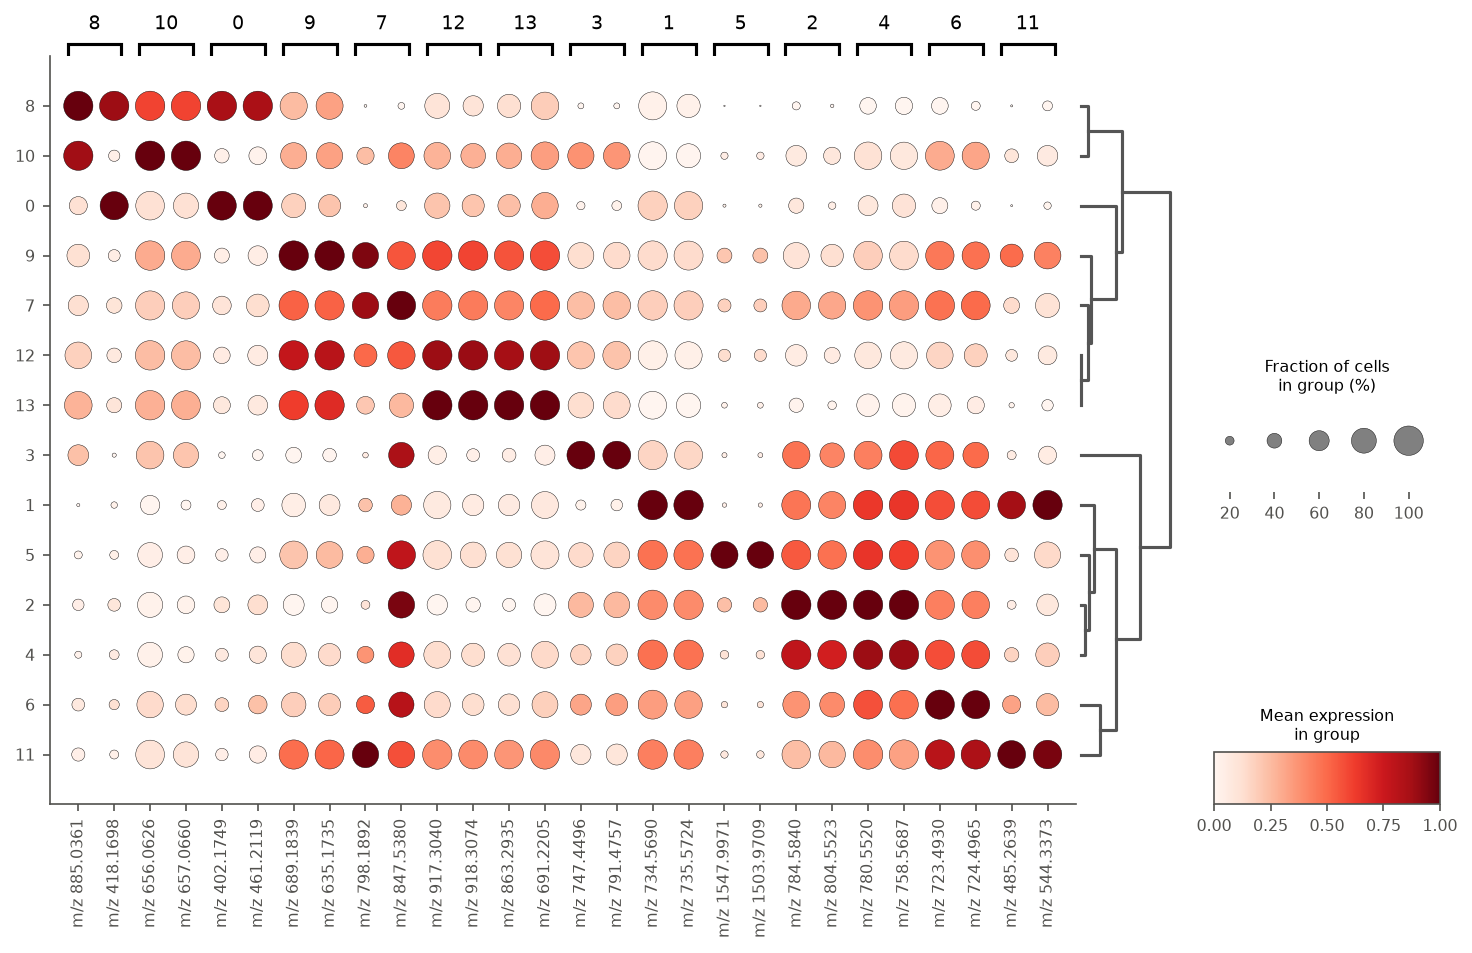
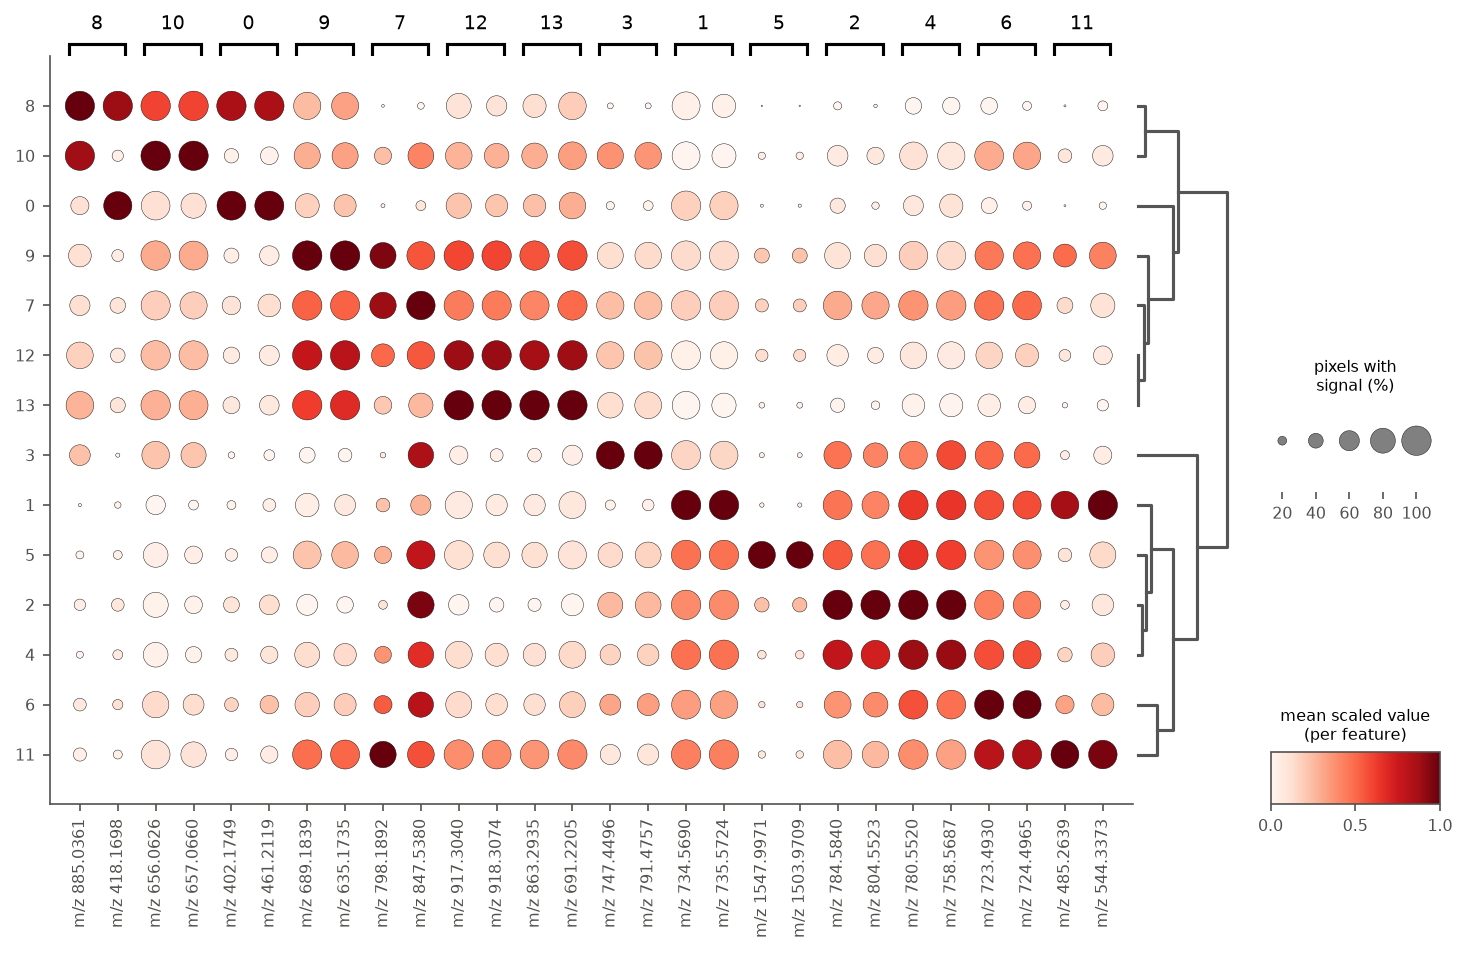
Analysis part: fixes from the Codex and Kimi reviews
Code blocks now connect (selected, lipizone, measured_scaled, effect sizes) and
the condition-comparison code adds Sex only when the design supports it.
Softer, more precise wording on restoration (circularity, jointly fitted
embedding), Harmony (guidance moved out of the NOTE), Leiden resolution,
censoring and the replicate unit; mixing baseline from the pixel numbers;
3-8 restricted to computational consequences; dot-plot legends without
single-cell terms.

diff --git a/scripts/analysis_examples.py b/scripts/analysis_examples.py
@@ -179,9 +179,10 @@ def run(adata, out, batch="sample", name=None, resolution=1.0, n_components=16, 
     B = adata.copy(); B.var_names = pd.Index(name.astype(str)).where(~pd.Index(name.astype(str)).duplicated(),
                                                                      pd.Index(name.astype(str)) + "_" + pd.Index(adata.var_names))
     sc.tl.rank_genes_groups(B, groupby="leiden", method="wilcoxon", layer="measured_scaled", use_raw=False)
-    dp = sc.pl.rank_genes_groups_dotplot(B, n_genes=2, layer="measured_scaled", show=False,
+    dp = sc.pl.rank_genes_groups_dotplot(B, n_genes=2, layer="measured_scaled", return_fig=True,
                                         standard_scale="var", figsize=(max(8, 0.32 * 2 * ncl + 3), 0.32 * ncl + 2))
-    plt.savefig(f"{out}/fig_3-5_markers.png"); plt.close("all")
+    dp.legend(colorbar_title="mean scaled value\n(per feature)", size_title="pixels with\nsignal (%)")
+    dp.savefig(f"{out}/fig_3-5_markers.png"); plt.close("all")
 
     # ---- 3-6 (only with a censored copy): detection and intensity per sample and cluster, uncensored vs censored
     if censored is not None and condition is not None:

diff --git a/Tutorial.md b/Tutorial.md
@@ -1528,16 +1528,19 @@ The same heuristic in a few lines reproduces the LBA's choice. The score subtrac
 
 ```python
 import numpy as np, pandas as pd
+# df: one row per tissue pixel, the normalized values of the features (list `features`) and a "Section" column
+# morans: features x sections, Moran's I per section (2-5)
 sec_var = df.groupby("Section")[features].var()
 score = sec_var.mean() - sec_var.var() / 2
 dropouts = (df.groupby("Section")[features].mean() < 1.5e-4).sum()
 keep = (morans.mean(axis=1) > 0.4) & (dropouts < 4) & (score > 0)
+selected = keep.index[keep]                    # the features used for the embedding (3-2)
 ```
 
-On the three zebrafish sections of 1-5, preprocessed as for the figures of section 2 (5,457 features detected in at least 5% of the tissue pixels of one section, TIC-normalized), the score behaves exactly like this: multiplying all intensities by a constant changes the fraction of features with a positive score from almost all to almost none (Figure 3-1, left). Separate criteria do not have this problem. The figures below use the 941 features with a mean Moran's I above 0.4 that are detected in at least 5% of the tissue pixels of every section (right).
+On the three zebrafish sections of 1-5, preprocessed as for the figures of section 2 (5,457 features detected in at least 5% of the tissue pixels of one section, TIC-normalized), the score behaves exactly like this: multiplying all intensities by a constant changes the fraction of features with a positive score from almost all to almost none (Figure 3-1, left). Separate criteria do not have this problem. 942 features have a mean Moran's I above 0.4 and are detected in at least 5% of the tissue pixels of every section (right). The figures below use 941 of them; one is kept out of the embedding to be restored from it in 3-4.
 
 ![Feature selection](figures/fig_3-1_features.png)
-*Figure 3-1. Left: fraction of the 5,457 zebrafish features with a positive LBA score after all intensities were multiplied by a constant; the cutoff `score > 0` selects almost all or almost none of them depending on the scale. Right: mean Moran's I against the lowest detection fraction over the three sections; the features used for the embedding (orange) pass both criteria (`scripts/make_analysis_figures.py`).*
+*Figure 3-1. Left: fraction of the 5,457 zebrafish features with a positive LBA score after all intensities were multiplied by a constant; the cutoff `score > 0` selects almost all or almost none of them depending on the scale. Right: mean Moran's I against the lowest detection fraction over the three sections; the selected features (orange) pass both criteria (`scripts/make_analysis_figures.py`).*
 
 ### 3-2 Dimensionality reduction and data integration
 <sub><a href="#top">(Back to top)</a></sub></br>
@@ -1566,6 +1569,8 @@ emb.tsne(perplexity=30, n_iter1=500, exaggeration1=1.2, n_iter2=100, exaggeratio
 emb.save_msi_dataset(plot_embeddings=True)
 ```
 
+**Which covariates to give Harmony** is a scientific decision: adjust for what you are *not* interested in. Give it the units of preparation and acquisition that carry unwanted technical variation (slide, matrix coating batch, run, day), and only if they are not aliased with what you want to study. `SectionID` is not automatically a technical batch: in serial sections it also encodes anatomy (section position), and in independent samples sections are nested in animals. `Sample` (animal) is the biological replicate; do not adjust for it just because pixels cluster by animal. `Sex` and `Condition` are biological; adjust for them only to build a deliberately condition-invariant reference, as the LBA did, and keep a second, minimally corrected embedding for everything else. Harmony encourages mixing across the given covariate; it does not remove it completely, and when the covariate is aliased with biology it can remove, keep or distort biological differences. If you adjust for `Condition`, never use the corrected embedding (or anything predicted from it) to test for condition effects.
+
 The same in generic scanpy terms (environment `msi-analysis`):
 
 ```python
@@ -1580,7 +1585,7 @@ ref = (adata.obs["Condition"] == "control").values     # learn the factors on th
 nmf = NMF(n_components=16, init="nndsvda", random_state=0, max_iter=500)
 nmf.fit(Xsel[ref])
 adata.obsm["X_nmf"] = nmf.transform(Xsel)              # project all pixels with the fixed loadings
-ho = hm.run_harmony(adata.obsm["X_nmf"], adata.obs, ["slide"])   # verified technical units only (see NOTE)
+ho = hm.run_harmony(adata.obsm["X_nmf"], adata.obs, ["slide"])   # verified technical units only (see above)
 Z = np.asarray(ho.Z_corr)
 # harmonypy <= 0.0.x returns components x cells; newer versions may return cells x components
 n_obs, n_comp = adata.obsm["X_nmf"].shape
@@ -1594,13 +1599,10 @@ else:
 
 Without a scale step like the one above, NMF mostly models the few most intense lipids, because it minimizes the squared error on the original values.
 
-In the zebrafish example, all three sections come from one embryo, so the reference set is all pixels, and Harmony is run on the section. Pixels already mix fairly well across sections: of the 15 nearest neighbours of a pixel in the NMF space, 69% come from its own section (33% would be complete mixing), and after Harmony 64% (Figure 3-2). The remaining separation is partly anatomy, because the sections cut the embryo at different depths; integration should not remove it.
+In the zebrafish example, all three sections come from one embryo, so the reference set is all pixels, and Harmony is run on the section. Pixels already mix partly across sections: of the 15 nearest neighbours of a pixel in the NMF space, 69% come from its own section (34% would be expected with complete mixing, given the pixel numbers of the sections), and after Harmony 64% (Figure 3-2). The remaining separation is partly anatomy, because the sections cut the embryo at different depths; integration should not remove it.
 
 ![NMF and Harmony](figures/fig_3-2_embedding.png)
-*Figure 3-2. UMAP of the NMF scores of all tissue pixels of the three zebrafish sections, before (left) and after (centre left) Harmony on the section, and three NMF factors in section 22 with the lipid that loads most on each (right) (`scripts/make_analysis_figures.py`).*
-
->**NOTE**
->Which covariates to give Harmony is a scientific decision: regress out what you are *not* interested in. Give it the units of preparation and acquisition that carry unwanted technical variation (slide, matrix coating batch, run, day), and only if they are not aliased with what you want to study. `SectionID` is not automatically a technical batch: in serial sections it also encodes anatomy (section position), and in independent samples sections are nested in animals. `Sample` (animal) is the biological replicate; do not remove it just because pixels cluster by animal. `Sex` and `Condition` are biological; remove them only to build a deliberately condition-invariant reference, as the LBA did, and keep a second, minimally corrected embedding for everything else. If you remove `Condition`, never use the corrected embedding (or anything predicted from it) to test for condition effects.
+*Figure 3-2. UMAP of the NMF scores of all tissue pixels of the three zebrafish sections, before (left) and after (centre left) Harmony on the section (column `sample`), and three NMF factors in section 22 with the lipid that loads most on each (right) (`scripts/make_analysis_figures.py`).*
 
 ### 3-3 Clustering and spatial segmentation
 <sub><a href="#top">(Back to top)</a></sub></br>
@@ -1613,7 +1615,7 @@ sc.tl.leiden(adata, resolution=2.0, flavor="igraph", n_iterations=2, key_added="
 ```
 With millions of pixels, subsample for the neighbor graph and transfer labels with a classifier, or use `n_neighbors` ~15 and a GPU implementation (rapids-singlecell). Validate such classifiers on entire held-out animals (and, if possible, acquisition runs), never on randomly held-out pixels: neighbouring pixels are nearly identical, so random splits overestimate accuracy. Report accuracy per held-out animal and per cluster.
 
-The resolution of 2.0 above was chosen for millions of pixels; for the three zebrafish sections (57,000 pixels), resolution 0.5 gives 14 clusters. They follow the anatomy of the embryo and recur in all three sections (Figure 3-3). Two clusters (0 and 8) form the outer rim of the tissue, and their marker ions (Figure 3-5) are background ions: in section 24, m/z 402.17 is about 8 times and m/z 885.04 about 4 times more intense off tissue than inside the embryo, while PC 34:1 [M+H]+ reaches only 8% of its inner level in these rim pixels. This is the rim of delocalized signal discussed in 2-2. Inspect such clusters, and remove them or tighten the mask, before interpreting them as tissue.
+The resolution of 2.0 above is the LBA-scale setting; the number of clusters it gives depends on the data, the neighbour graph and the preprocessing, not only on the number of pixels. For the three zebrafish sections (57,000 pixels), resolution 0.5 gives 14 clusters. Whatever resolution you choose, check that the clusters are stable under small changes, spatially coherent, recur in independent samples and can be interpreted. They follow the anatomy of the embryo and recur in all three sections (Figure 3-3). Two clusters (0 and 8) form the outer rim of the tissue, and their marker ions (Figure 3-5) are background ions: in section 24, m/z 402.17 is about 8 times and m/z 885.04 about 4 times more intense off tissue than inside the embryo, while PC 34:1 [M+H]+ reaches only 8% of its inner level in these rim pixels. This is the rim of delocalized signal discussed in 2-2. Inspect such clusters, and remove them or tighten the mask, before interpreting them as tissue.
 
 ![Leiden clusters](figures/fig_3-3_clusters.png)
 *Figure 3-3. Leiden clusters (resolution 0.5) on the Harmony-corrected NMF embedding, in the three zebrafish sections (`scripts/make_analysis_figures.py`).*
@@ -1695,14 +1697,14 @@ restored = model.predict(adata.obsm["X_harmony"])           # keep in a separate
 print("held-out r:", np.corrcoef(restored[~train], y[~train])[0, 1])
 ```
 
-Figure 3-4 does this for a well-detected zebrafish lipid that was left out of the embedding. Trained on sections 22 and 24, the restored image of section 26 correlates well with the measured one (r = 0.85), which is what the LBA's validation criterion checks. But the restored image is smoother, and more of its variance is explained by the clusters (31%, against 23% for the measured values): the prediction carries the structure of the embedding, which is the circularity described below.
+Figure 3-4 does this for a well-detected zebrafish lipid that was left out of the embedding. Trained on sections 22 and 24, the restored image of section 26 correlates well with the measured one (r = 0.85), which is what the LBA's validation criterion checks. But the restored image is smoother, and more of its variance is explained by the clusters (31%, against 23% for the measured values): the prediction carries the structure of the embedding, which is the circularity described below. Note also that NMF and Harmony were fitted on all three sections, including the held-out one, so r checks the regressor, not a fully independent prediction; for that, fit the whole chain (feature selection, scaling, NMF, integration, regressor) without the held-out sample.
 
 ![Restoration from the embedding](figures/fig_3-4_restoration.png)
 *Figure 3-4. Restoration of m/z 1017.6684 in the held-out zebrafish section 26 from the Harmony-corrected NMF embedding (gradient-boosted trees trained on sections 22 and 24): measured values, restored values, and the Leiden clusters of Figure 3-3 (`scripts/make_analysis_figures.py`).*
 
 Why this needs care:
-1. **Circularity.** A restored lipid is a function of the same embedding that defined the clusters. It will look cluster-specific by construction, and cannot provide independent evidence for a cluster.
-2. **Removed biology.** The predictors come from an embedding where `Condition` (and `Sex`) were regressed out. A restored lipid can then only show condition differences indirectly, through changed cluster composition.
+1. **Circularity.** A restored lipid is a function of the same embedding that defined the clusters. It tends to inherit the structure of that embedding, looks more cluster-specific than the measured lipid, and cannot provide independent evidence for a cluster.
+2. **Weakened biology.** The predictors come from an embedding that was adjusted for `Condition` (and `Sex`). Harmony does not remove such differences completely, but it can weaken or distort them, so condition differences of a restored lipid are unreliable in either direction.
 3. **Validation on the training distribution.** A validation r > 0.4 on one held-out section of the same brain says little about sections from other animals or conditions.
 
 Recommendations:
@@ -1718,13 +1720,27 @@ A cluster is only a label. To make it useful, describe what distinguishes it (ma
 **Marker lipids.** Mann-Whitney U tests of each cluster versus all others (or versus siblings in a hierarchy), with BH correction, on 0-1 scaled measured values; report the effect size (log2 fold change of means) and the fraction of pixels above background. Pixels are spatially autocorrelated and nested in sections and animals, so these p-values are not valid inference, and BH correction does not fix that. Use them, or better the effect sizes, only to rank candidate markers. To claim that a lipid is enriched in a cluster, aggregate per animal x cluster and test with the animal as unit, as in 3-6.
 
 ```python
-# rank on measured (not imputed or batch-corrected) values, stored in a dedicated layer (2-9)
+import numpy as np, pandas as pd
+# measured (not imputed or batch-corrected) values (2-9), scaled 0-1 per lipid between its 0.5 and 99.5 percentiles
+M = adata.X.toarray() if hasattr(adata.X, "toarray") else np.asarray(adata.X)
+lo, hi = np.percentile(M, 0.5, axis=0), np.percentile(M, 99.5, axis=0)
+adata.layers["measured_scaled"] = np.clip((M - lo) / np.where(hi > lo, hi - lo, 1), 0, 1)
+adata.obs["lipizone"] = adata.obs["leiden"]                  # or the EUCLID lipizones (3-3)
+
 sc.tl.rank_genes_groups(adata, groupby="lipizone", method="wilcoxon", layer="measured_scaled", use_raw=False)
-sc.pl.rank_genes_groups_dotplot(adata, n_genes=3, layer="measured_scaled")   # plot the same values
+dp = sc.pl.rank_genes_groups_dotplot(adata, n_genes=2, layer="measured_scaled", return_fig=True)   # same values
+dp.legend(colorbar_title="mean scaled value", size_title="pixels with signal (%)")   # scanpy's defaults say "cells"
+dp.show()
+
+# effect size on the unscaled measured values: log2 ratio of the cluster mean to the mean of all other pixels
+lab = adata.obs["lipizone"].to_numpy()
+eps = np.median(M[M > 0]) * 1e-3                              # small offset for lipids absent from a group
+lfc = pd.DataFrame({c: np.log2((M[lab == c].mean(axis=0) + eps) / (M[lab != c].mean(axis=0) + eps))
+                    for c in np.unique(lab)}, index=adata.var_names)        # lipids x clusters
 ```
 
 ![Marker lipids](figures/fig_3-5_markers.png)
-*Figure 3-5. The two top-ranked features of each zebrafish cluster of Figure 3-3 (Wilcoxon test of each cluster against all others on 0-1 scaled measured values; colour: mean scaled value, scaled per feature; dot size: fraction of pixels with signal). The ranking is computed on pixels and serves to find candidates, not to test them (`scripts/make_analysis_figures.py`).*
+*Figure 3-5. The two top-ranked features of each zebrafish cluster of Figure 3-3 (Wilcoxon test of each cluster against all others on 0-1 scaled measured values; colour: mean scaled value, rescaled per feature for display, not a fold change; dot size: fraction of pixels with signal). The ranking is computed on pixels and serves to find candidates, not to test them (`scripts/make_analysis_figures.py`).*
 
 **Anatomy.** Cross-tabulate clusters and Allen regions; the LBA used a reciprocal enrichment score (enrichment of the cluster in the region multiplied by enrichment of the region in the cluster) to name clusters after regions.
 
@@ -1750,7 +1766,7 @@ Remember that the MSI and MERFISH data come from different animals and that a pi
 ### 3-6 Comparing conditions
 <sub><a href="#top">(Back to top)</a></sub></br>
 Comparing conditions, e.g. disease vs control, is where MSI analyses often go wrong. The rules are the same as for any replicated experiment:
-1. **The biological replicate is the animal**, not the pixel and not the section. Millions of pixels make any difference "significant".
+1. **The replicate is the independent biological unit** that was assigned to a condition (an animal, a donor, an independently generated organoid batch), not the pixel and not the section. Millions of pixels make any difference "significant". The code below calls this unit `Sample` and speaks of animals.
 2. **Acquisition batches must not coincide with conditions.** If they do (as in the LBA pregnancy experiment, all acquired two years after the controls), no model can separate the two; a model can only replace the missing information with an assumption.
 3. **Normalization and integration must not remove the effect of interest** (2-6, 3-2, 3-4).
 4. **Test measured, not imputed, values.**
@@ -1764,6 +1780,7 @@ import statsmodels.formula.api as smf
 from statsmodels.stats.multitest import multipletests
 
 # df: one row per pixel, measured (not imputed) lipid values plus metadata columns
+# (if there is no Sex column, drop "Sex" from the grouping keys here and below)
 pb = (df.groupby(["Sample", "Condition", "Sex", "lipizone"], observed=True)[lipids]
         .mean().reset_index())                                     # one row per animal x lipizone
 pb["Condition"] = pd.Categorical(pb["Condition"], categories=["control", "treated"])  # reference first
@@ -1778,8 +1795,9 @@ for lz, d in pb.groupby("lipizone"):
         d2 = d.assign(y=np.log2(d[lip] + pc)).replace([np.inf, -np.inf], np.nan).dropna(subset=["y"])
         if (d2.groupby("Condition", observed=False)["Sample"].nunique() < 3).any():
             continue                                             # too few animals left for this lipid
-        # include covariates such as Sex only if the design supports them (both levels in both groups)
-        mod = smf.ols("y ~ Condition + Sex", data=d2)
+        # add covariates such as Sex only if the design supports them (both levels in both groups)
+        with_sex = "Sex" in d2 and (d2.groupby("Condition", observed=False)["Sex"].nunique() > 1).all()
+        mod = smf.ols("y ~ Condition + Sex" if with_sex else "y ~ Condition", data=d2)
         if np.linalg.matrix_rank(mod.exog) < mod.exog.shape[1]:
             continue                                             # e.g. sex confounded with condition here
         fit = mod.fit()
@@ -1798,7 +1816,9 @@ sec = (df.groupby(["Sample", "SectionID", "Condition", "Sex", "lipizone"], obser
          .mean().reset_index())                                    # one row per section x lipizone
 sec["Condition"] = pd.Categorical(sec["Condition"], categories=["control", "treated"])
 d3 = sec[sec["lipizone"] == "LZ1"].assign(y=lambda d: np.log2(d["PC 34:1"] + pc))
-fit = smf.mixedlm("y ~ Condition + Sex", data=d3, groups=d3["Sample"]).fit(reml=False)   # ML for fixed effects
+with_sex = (d3.groupby("Condition", observed=False)["Sex"].nunique() > 1).all()
+fit = smf.mixedlm("y ~ Condition + Sex" if with_sex else "y ~ Condition", data=d3,
+                  groups=d3["Sample"]).fit(reml=False)                     # ML for fixed effects
 print(fit.converged, fit.params[term], fit.pvalues[term])
 ```
 Wald p-values of mixed models with few animals are anti-conservative; use a likelihood-ratio test or parametric bootstrap, or average the sections per animal first and use the OLS model above, which is then the more robust choice.
@@ -1813,11 +1833,12 @@ def fit_effect(d, y, binomial_weights=None):
     d = d.assign(y=y).dropna(subset=["y"])
     if d["y"].nunique() < 2 or (d.groupby("Condition", observed=False)["Sample"].nunique() < 3).any():
         return [np.nan] * 4                               # constant (e.g. detected everywhere) or too few animals
+    with_sex = "Sex" in d and (d.groupby("Condition", observed=False)["Sex"].nunique() > 1).all()
+    formula = "y ~ Condition + Sex" if with_sex else "y ~ Condition"
     if binomial_weights is None:
-        mod = smf.ols("y ~ Condition + Sex", data=d)
+        mod = smf.ols(formula, data=d)
     else:
-        mod = smf.glm("y ~ Condition + Sex", data=d, family=sm.families.Binomial(),
-                      var_weights=d[binomial_weights])
+        mod = smf.glm(formula, data=d, family=sm.families.Binomial(), var_weights=d[binomial_weights])
     if np.linalg.matrix_rank(mod.exog) < mod.exog.shape[1]:
         return [np.nan] * 4
     fit = mod.fit() if binomial_weights is None else mod.fit(scale="X2")   # X2: quasi-binomial
@@ -1845,7 +1866,7 @@ two = pd.DataFrame(rows, columns=["lipizone", "lipid", "part", "effect", "ci_low
 ok = two["p"].notna()
 two.loc[ok, "padj"] = two[ok].groupby("part")["p"].transform(lambda p: multipletests(p, method="fdr_bh")[1])
 ```
-The 20-pixel minimum applies per animal and region. Results that differ between the uncensored and the censored data depend on run-to-run sensitivity and should be reported as such.
+The 20-pixel minimum applies per animal and region. Results that differ between the uncensored and the censored data are sensitive to acquisition-specific detection limits and to the censoring assumptions; report them as such, because they cannot be interpreted cleanly without replicated acquisitions or reference material.
 
 **Cardinal** implements the same idea on MSI objects, and a segmentation-based version that first finds the relevant region per sample:
 
@@ -1888,7 +1909,7 @@ For interactive exploration, [napari](https://napari.org) handles large 3D array
 * **Same-section multimodal data.** Spatial multimodal analysis (SMA; Vicari et al. 2024) acquires MALDI-MSI and Visium spatial transcriptomics on the same section. Clarke et al. 2025 image metabolites, lipids and N-glycans sequentially on one section. These avoid the cross-animal integration problem entirely.
 * **Single-cell MSI.** SpaceM (Rappez et al. 2021) combines microscopy with MALDI on cultured cells; MEISTER (Xie et al. 2024) profiled >13,000 dissociated brain cells by MALDI and mapped their signatures onto tissue.
 * **Faster acquisition.** MEISTER's deep-learning reconstruction from short transients accelerated FT-ICR acquisition 15-fold.
-* **Sensitivity, separation and structure.** These are three different things. MALDI-2 (laser post-ionization) increases ion yield for many lipid classes and changes coverage and adduct patterns, so ion identities and intensity responses must be re-established rather than carried over from conventional MALDI. Ion mobility (e.g. trapped ion mobility on timsTOF) adds a gas-phase separation dimension and collision cross sections, which separate some isobars and isomers and support, but rarely establish, identities. On-tissue MS/MS provides structural evidence (class, chains), at the level its fragments support.
+* **Other data types.** Data with an ion mobility dimension (features defined by m/z and collision cross section), MALDI-2 data (other coverage and adduct patterns) and on-tissue MS/MS need adapted peak calling, matching and annotation. The steps of this tutorial assume MS1 images of one polarity.
 
 ## Appendix A. The Lipid Brain Atlas pipeline as it was actually run
 <sub><a href="#top">(Back to top)</a></sub></br>
